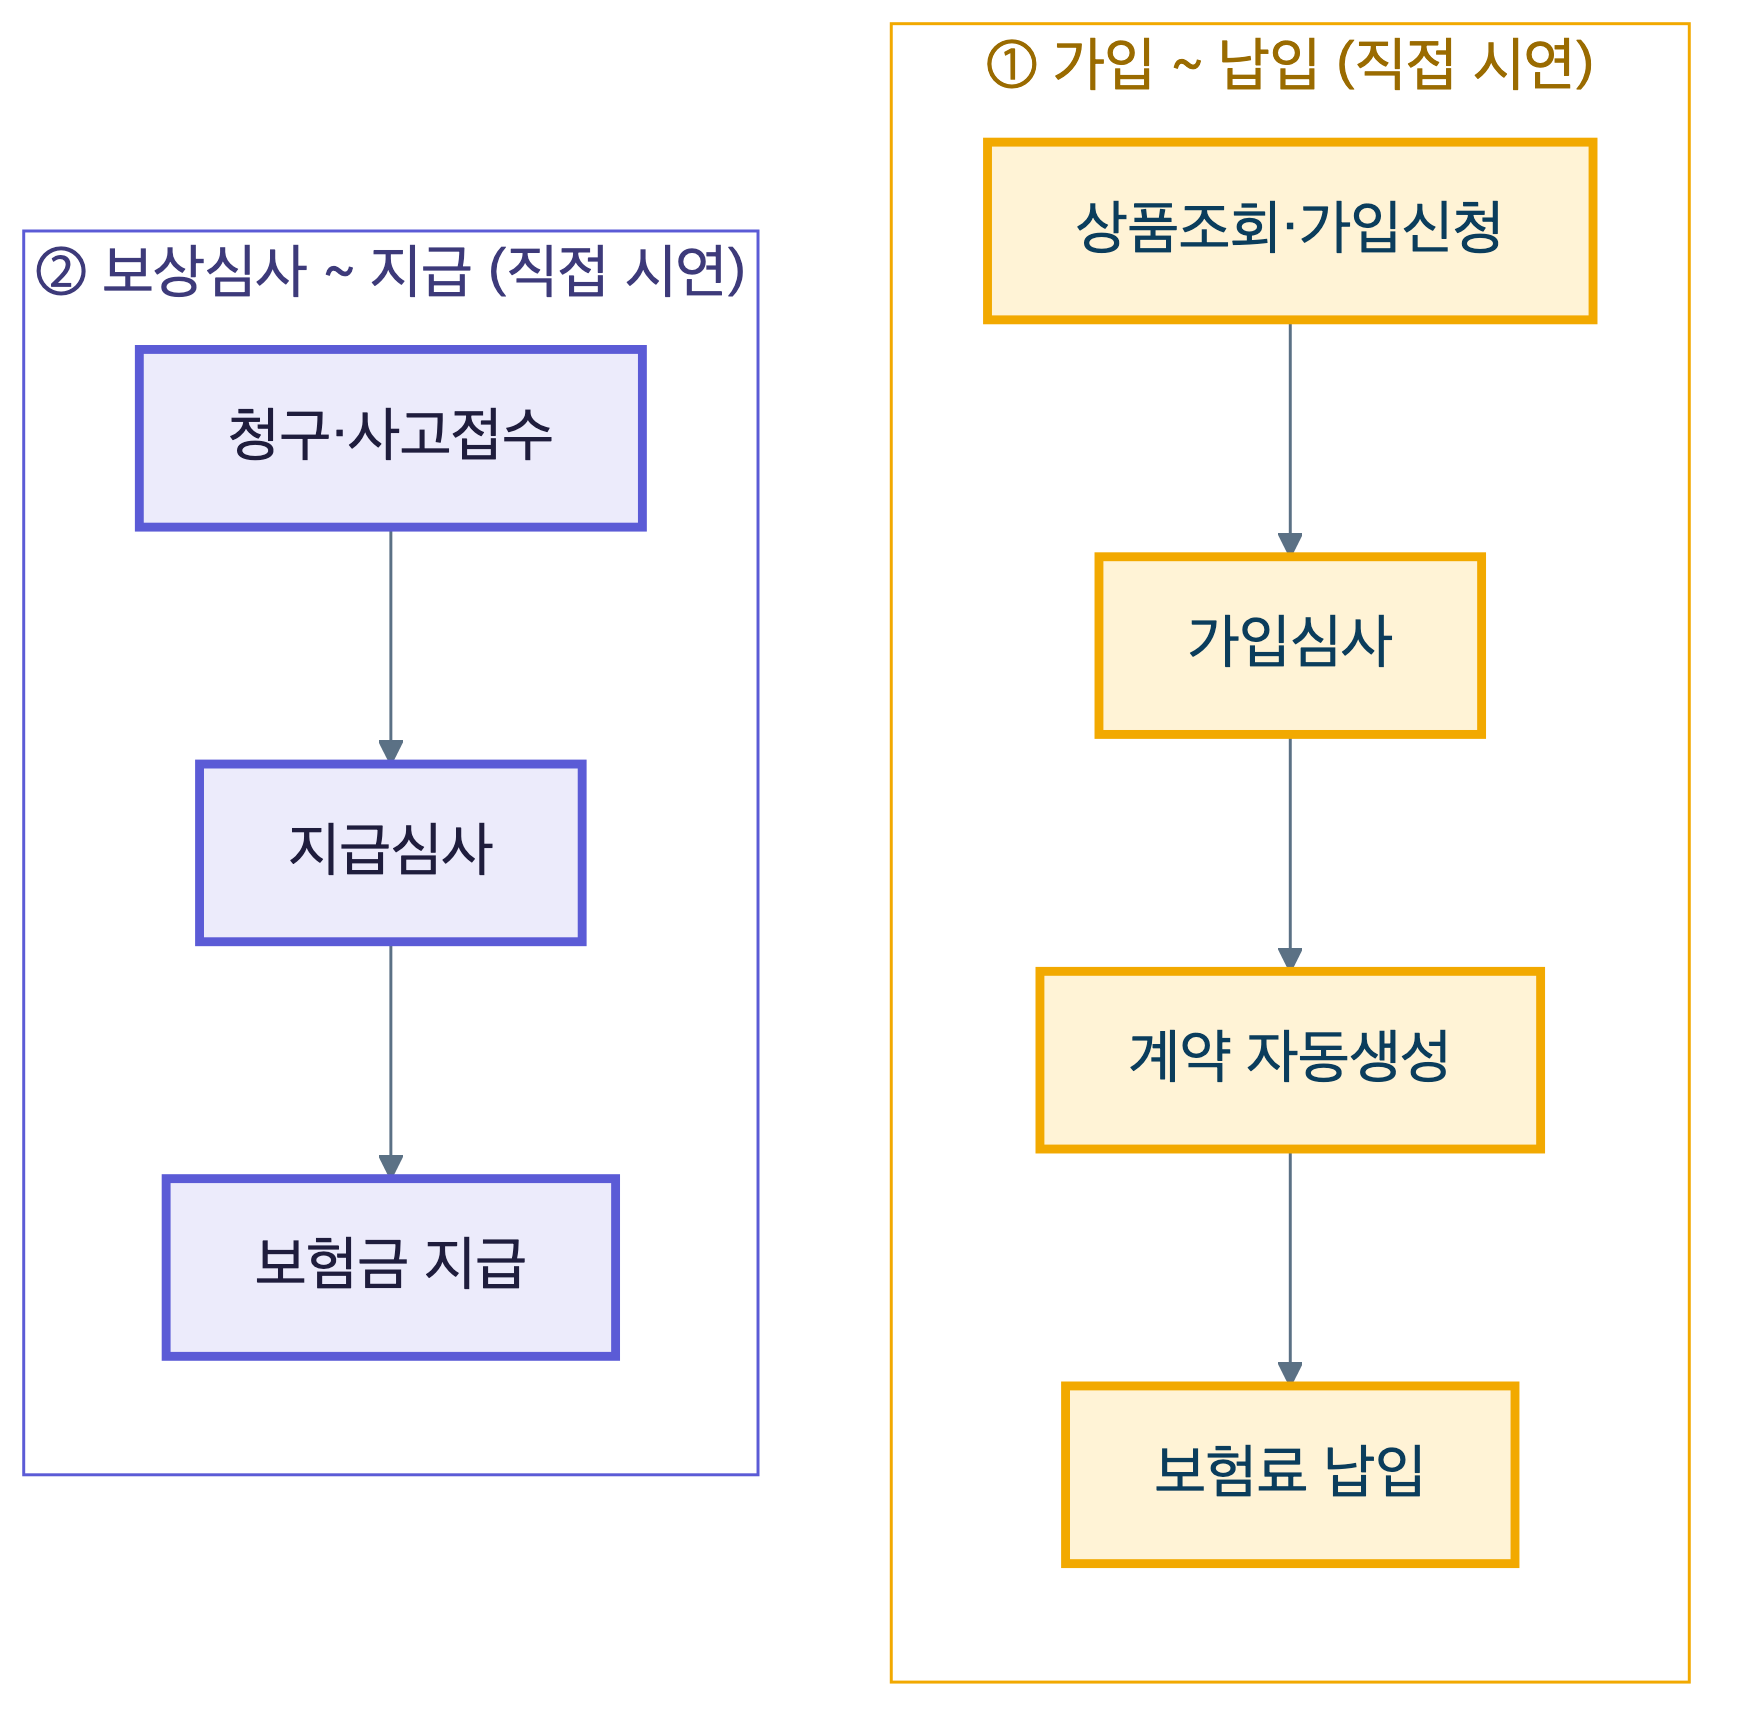
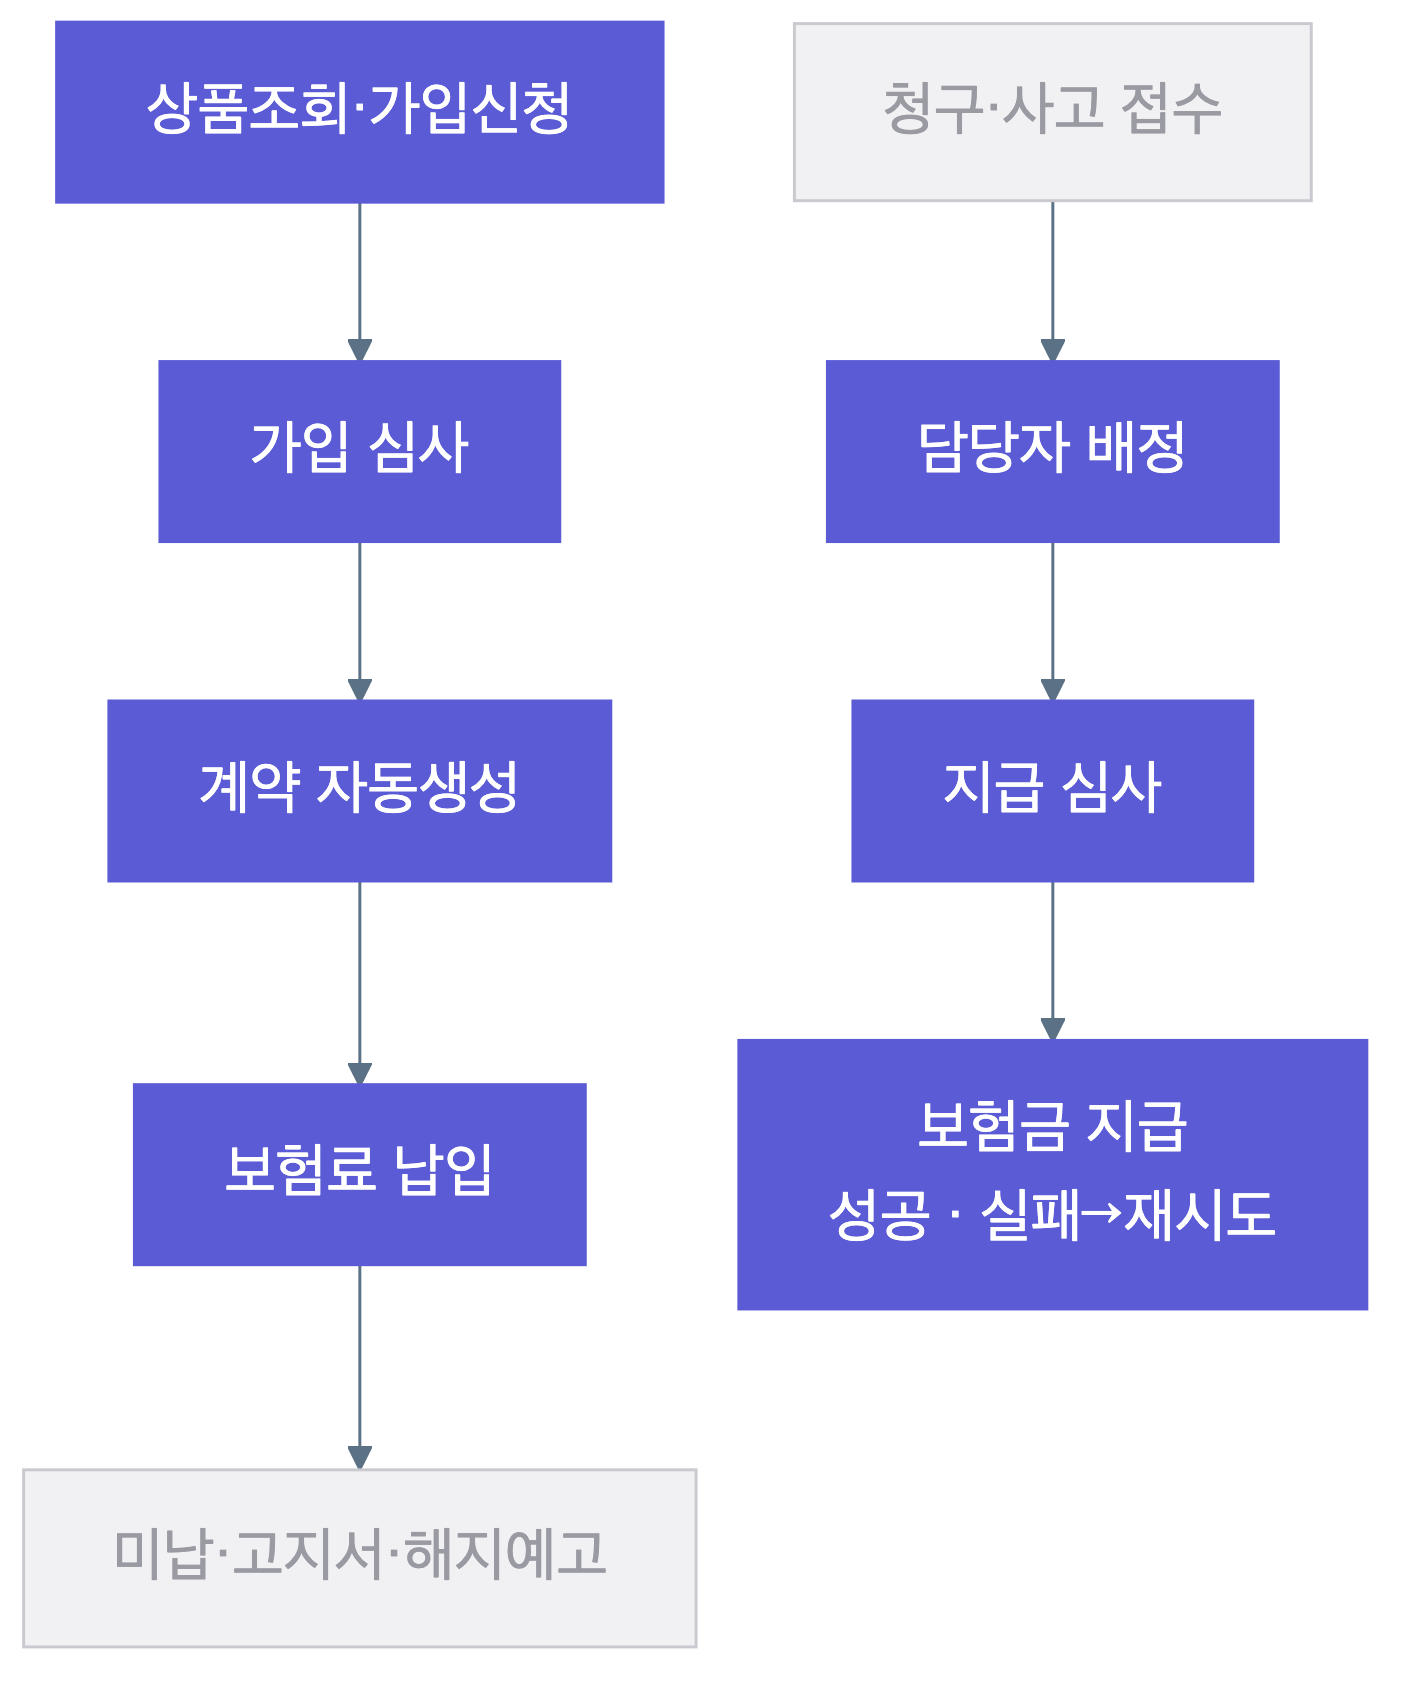
발표 유스케이스: 전체 시나리오 중 시연 부분만 강조(파랑=시연/회색=시연 외) + 범례

diff --git a/docs/presentation/build_figma.py b/docs/presentation/build_figma.py
@@ -163,9 +163,11 @@ for name,key,diff in comps:
     box(s,0.5,6.05,12.35,1.15,WARM,[[("다른 점   ",19,True,C("b5793a"),SANS),(diff,19,True,BLACK,SANS)]],align=PP_ALIGN.LEFT,rad=0.12)
 
 # 17. 유스케이스
-s=slide(); head(s,"","유스케이스 중 내가 시연하는 부분")
-img_fit(s,os.path.join(DIA,"uc-map.png"),2.4,2.05,8.5,3.9)
-tb(s,0.85,6.1,11.6,0.9,[[("두 시나리오를 직접 시연한다 — ① 가입~납입, ② 보상심사~지급.",26,True,BLACK,SANS)]],align=PP_ALIGN.CENTER,spc=-0.4)
+s=slide(); head(s,"","전체 중 내가 시연하는 부분")
+img_fit(s,os.path.join(DIA,"uc-map.png"),4.6,2.0,4.1,4.1)
+box(s,0.85,2.3,3.4,0.8,ACCENT,[[("파란 박스 = 직접 시연",18,True,WHITE,SANS)]],wrap=False)
+box(s,0.85,3.3,3.4,0.8,C("f1f1f3"),[[("회색 = 시연 외(코드엔 있음)",17,True,GRAY,SANS)]],line=C("c9c9cf"),wrap=False)
+tb(s,0.85,6.35,11.6,0.8,[[("전체 흐름 중 파란 부분만 라이브로 시연한다.",26,True,BLACK,SANS)]],align=PP_ALIGN.CENTER,spc=-0.4)
 
 # 18. AI 사용
 s=slide(); head(s,"","AI를 어떻게 썼나")